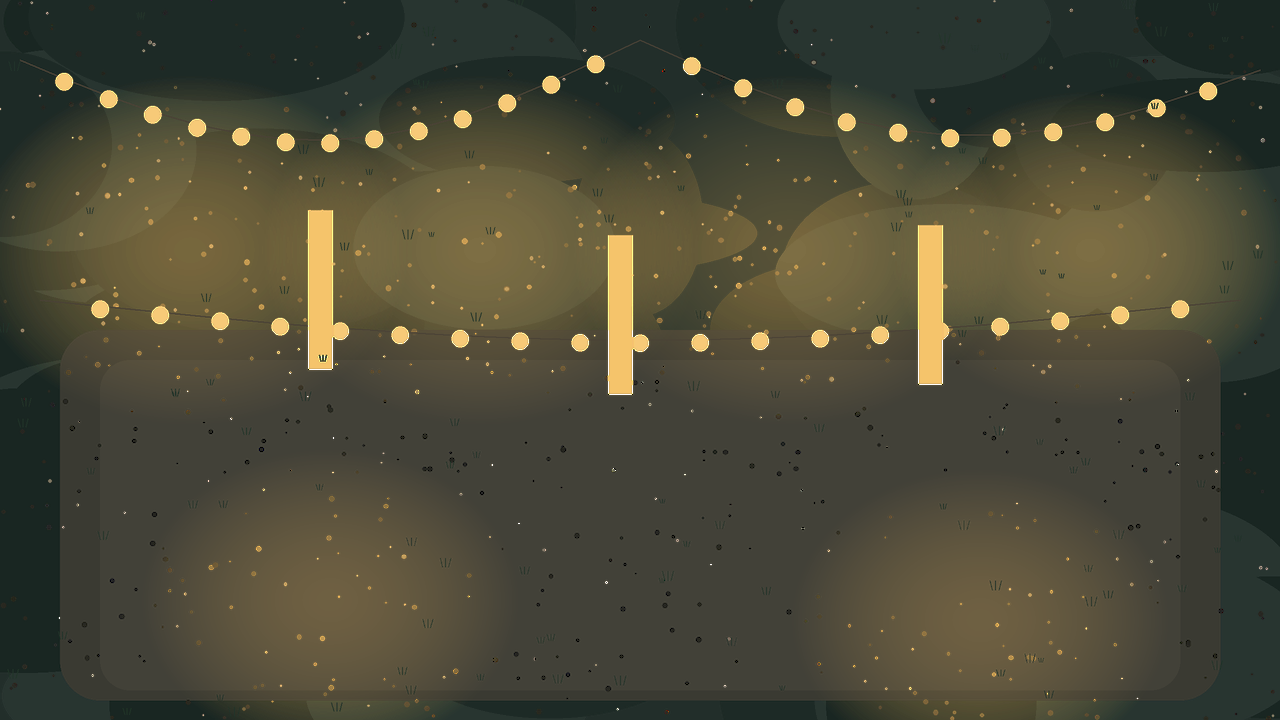
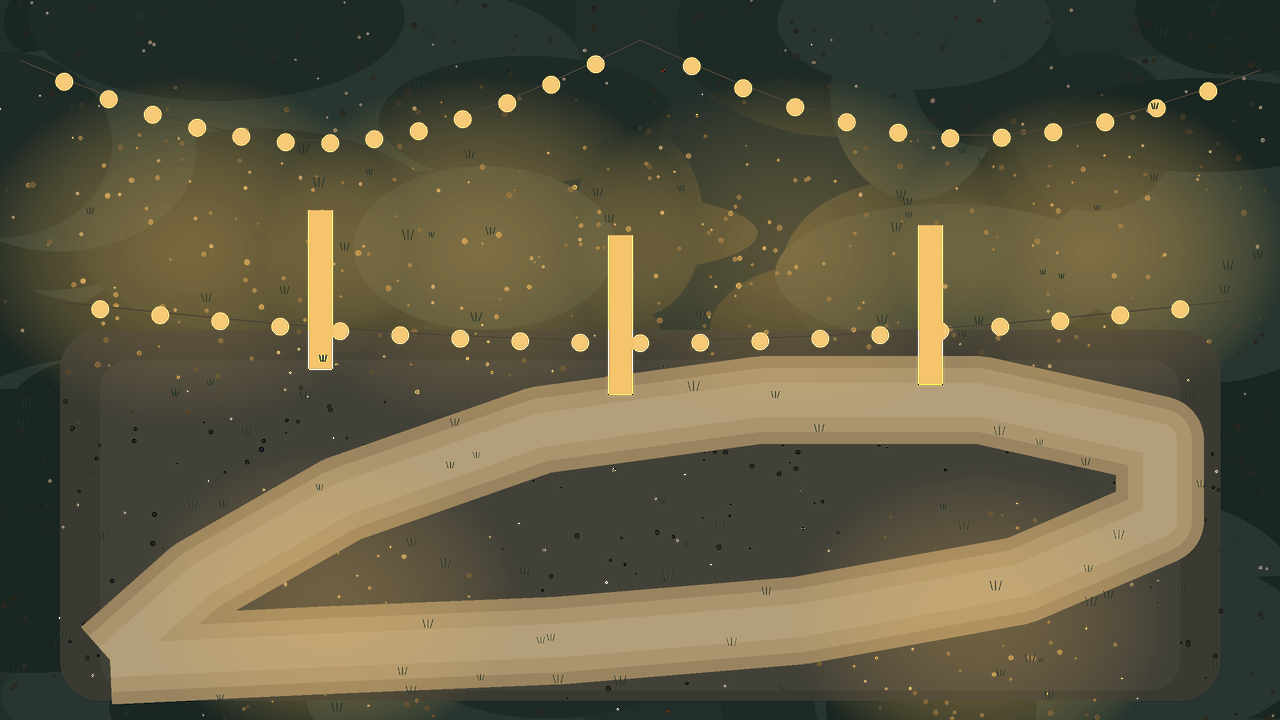
세 맵을 잇는 갈색 흙길 추가 및 출구 개방 시 새 길 연출 제거

Changed region(s): [[0.0625, 0.4889, 0.9375, 0.9778]]

diff --git a/Project/pico_heist/make_assets.py b/Project/pico_heist/make_assets.py
@@ -108,6 +108,15 @@ def vignette(im, color=(8, 16, 12), a=120, inn=0.55):
     im.alpha_composite(layer)
 
 
+def dirt_road(d, pts, ss, shade=1.0):
+    """세 맵에서 공유하는 갈색 흙길 — 1번 맵의 팔레트/폭을 그대로 쓴다."""
+    pl = [(x * ss, y * ss) for (x, y) in pts]
+    for rgb, width in (((176, 150, 108), 88), ((195, 170, 126), 64),
+                       ((204, 181, 138), 34)):
+        col = tuple(min(255, int(c * shade)) for c in rgb) + (255,)
+        d.line(pl, fill=col, width=width * ss, joint="curve")
+
+
 def bg_forest():
     ss = 2
     im = Image.new("RGBA", (W * ss, H * ss), (108, 138, 88, 255))
@@ -119,13 +128,11 @@ def bg_forest():
         rx, ry = rnd.uniform(60, 200) * ss, rnd.uniform(40, 120) * ss
         col = rnd.choice([(96, 126, 80), (118, 148, 94), (102, 132, 84)])
         d.ellipse([cx - rx, cy - ry, cx + rx, cy + ry], fill=col + (110,))
-    # 흙길
+    # 흙길 — 기존 길을 유지하되 끝을 오른쪽 아래 출구 게이트까지 이어서
+    # 2·3번 맵의 같은 흙길로 자연스럽게 넘어가게 한다.
     path = [(90, 610), (300, 560), (520, 590), (700, 520), (900, 470),
-            (1080, 400), (1210, 340)]
-    pl = [(x * ss, y * ss) for (x, y) in path]
-    d.line(pl, fill=(176, 150, 108, 255), width=88 * ss, joint="curve")
-    d.line(pl, fill=(195, 170, 126, 255), width=64 * ss, joint="curve")
-    d.line(pl, fill=(204, 181, 138, 255), width=34 * ss, joint="curve")
+            (1080, 400), (1150, 480), (1180, 640)]
+    dirt_road(d, path, ss)
     # 작은 갈림길
     side = [(520, 588), (470, 470), (500, 380)]
     d.line([(x * ss, y * ss) for (x, y) in side], fill=(180, 155, 112, 255),
@@ -164,6 +171,10 @@ def bg_lake():
         rx, ry = rnd.uniform(60, 180) * ss, rnd.uniform(30, 90) * ss
         col = rnd.choice([(134, 128, 84), (156, 148, 100), (122, 118, 80)])
         d.ellipse([cx - rx, cy - ry, cx + rx, cy + ry], fill=col + (110,))
+    # 1번 맵에서 이어진 갈색 흙길 — 왼쪽에서 들어와 호숫가를 크게 돌아
+    # 왼쪽 출구 게이트(110,420)로 다시 나간다. (물보다 아래에 그려 해변에서 끊긴다)
+    dirt_road(d, [(0, 380), (260, 340), (560, 330), (820, 350), (960, 400),
+                  (960, 440), (780, 440), (520, 430), (280, 420), (110, 420)], ss)
     # 물
     d.rectangle([0, 468 * ss, W * ss, H * ss], fill=(58, 82, 96, 255))
     for i in range(46):
@@ -243,6 +254,12 @@ def bg_festival():
                         fill=(66, 65, 56, 255))
     grain(im, (40, 40, 34), 700, size=(1, 3), alpha=(20, 70), ss=ss)
     grain(im, (120, 112, 96), 200, size=(1, 2), alpha=(20, 50), ss=ss)
+    # 2번 맵에서 이어진 같은 갈색 흙길 — 광장을 한 바퀴 돌아
+    # 시작점이자 출구 게이트(110,660)로 돌아온다.
+    dirt_road(d, [(110, 660), (320, 650), (560, 640), (800, 620),
+                  (1020, 580), (1160, 520), (1160, 440), (980, 400),
+                  (760, 400), (540, 430), (340, 500), (200, 580),
+                  (110, 660)], ss, shade=0.88)
     # 축제 조명 웅덩이
     for (cx, cy, rx) in [(190, 250, 220), (480, 250, 220), (790, 250, 220),
                          (1090, 250, 200), (330, 600, 190), (980, 620, 190)]:

diff --git a/Project/pico_heist/maps.py b/Project/pico_heist/maps.py
@@ -56,7 +56,8 @@ MAPS = [
         "exit": {
             "rect": (1130, 600, 1230, 680),
             "gate": (1180, 640),
-            "path": [(350, 362), (640, 640), (900, 640), (1180, 640)],
+            "path": [(90, 610), (300, 560), (520, 590), (700, 520),
+                     (900, 470), (1080, 400), (1150, 480), (1180, 640)],
         },
         "tent": {
             "name": "텐트 안",
@@ -158,7 +159,9 @@ MAPS = [
         "exit": {
             "rect": (60, 380, 160, 460),
             "gate": (110, 420),
-            "path": [(880, 564), (880, 440), (600, 420), (110, 420)],
+            "path": [(0, 380), (260, 340), (560, 330), (820, 350),
+                     (960, 400), (960, 440), (780, 440), (520, 430),
+                     (280, 420), (110, 420)],
         },
         # 낚싯배가 호수 끝에 닿으면 전환되는 낚시 전용 맵.
         # 배 안에서만 움직이며, 배 위에서만 타이밍 낚시가 가능하다.
@@ -237,7 +240,10 @@ MAPS = [
         "exit": {
             "rect": (60, 620, 160, 700),
             "gate": (110, 660),
-            "path": [(620, 388), (640, 660), (380, 660), (110, 660)],
+            "path": [(110, 660), (320, 650), (560, 640), (800, 620),
+                     (1020, 580), (1160, 520), (1160, 440), (980, 400),
+                     (760, 400), (540, 430), (340, 500), (200, 580),
+                     (110, 660)],
         },
         "backstage": {
             "name": "무대 뒤 조리 부스",

diff --git a/Project/pico_heist/game.py b/Project/pico_heist/game.py
@@ -1243,14 +1243,10 @@ class Game:
             im = self.img(sname)
             im.draw(sx, H - sy + im.h / 2, im.w, im.h)
 
-        # 출구가 열리면 길 표지를 따라 게이트까지 안내한다.
+        # 갈색 흙길은 세 맵 배경에 처음부터 깔려 있다. 음식을 다 모아도
+        # 새로운 길이 열리는 연출은 없고, 게이트 표지만 나타난다.
         ex = self.map.get("exit")
         if self.exit_open and ex is not None and self.boat_mode is None and not self.in_tent:
-            marker = self.img("fx_exit_trail.png")
-            for mx, my in path_markers(ex["path"]):
-                marker.opacify(0.55 + 0.35 * math.sin(self.time * 3.2 + mx * 0.02))
-                marker.draw(mx, H - my + 8, 28, 22)
-            marker.opacify(1.0)
             gx, gy = ex["gate"]
             gate = self.img("fx_exit_win.png" if self.map_index == len(MAPS) - 1
                             else "fx_exit_next.png")

diff --git a/Project/pico_heist/README.md b/Project/pico_heist/README.md
@@ -36,7 +36,7 @@ python main.py
 - **1번 맵은 야외만 다 먹으면 텐트 안 마시멜로가 남아 클리어되지 않는다.** **2번 맵은 텐트가 장식용이라, 부두에서 Q로 낚싯배를 타고 호숫가 낚시 맵으로 가서 생선을 낚아야 한다.** **3번 맵은 주황 부스 앞에서 E로 무대 뒤 조리 부스에 들어가 수프를 가져와야 한다.**
 - **맵의 5번째(마지막) 음식이 ‘진짜 음식’이다.** 숲속 마시멜로(텐트) · 호숫가 생선(낚시) · 야간 축제 수프(조리 부스), 총 **3개**. 절대 썩지 않으며 **이걸 얻지 않으면 맵이 클리어되지 않는다.**
 - 전체 썩은 음식은 **7개(2 + 2 + 3)**다. 썩은 음식을 주우면 경고만 뜨고 **수집 카운트에는 포함되지 않는다.** 안 주워도 맵 클리어가 가능하다.
-- 한 맵의 **정상 음식 + 마지막 진짜 음식**을 모아도 즉시 넘어가지 않는다. 대신 **출구가 열리고**, 피코가 **길 표지를 따라 게이트까지 직접 걸어가 E를 눌러야** 다음 캠핑장으로 이동한다.
+- 한 맵의 **정상 음식 + 마지막 진짜 음식**을 모아도 즉시 넘어가지 않는다. 대신 **출구 게이트만 열리고**, 피코가 **처음부터 깔려 있는 갈색 흙길을 따라 게이트까지 직접 걸어가 E를 눌러야** 다음 캠핑장으로 이동한다. 음식을 모을 때 **새로운 길이 생기지는 않는다.**
 - 캠핑객이 **보거나 듣거나** 하면 **감지도**가 차오른다. 100%가 되면 **추격**이 시작된다.
 - 추격 중 따라잡히면 게임 오버. 시야에서 벗어나 따돌리면 캠핑객은 **원래 순찰 자리로 돌아간다**.
 - **수풀**에 들어가면 멀리서는 보이지 않고 발소리도 줄어든다. 맵마다 5~7개.
@@ -45,6 +45,7 @@ python main.py
 - **진짜 음식 3개(맵마다 마지막 음식 1개)를 모두 모으면 마지막 출구가 열린다.** 게이트까지 걸어가 **E**를 눌러야 최종 클리어. R로 즉시 재시작.
 - 상단 HUD는 **15칸을 그대로 유지**해 어떤 음식을 모았는지 보여준다. 별(★)이 붙은 3칸이 진짜 음식이고, 왼쪽 위에 **“남은 음식: N개”**(현재 맵 기준 5→0)와 **“진짜 음식: N/3”**이 함께 표시된다.
 - 맵이 넘어가면서 시간이 흐른다: **숲속 = 한낮 → 호숫가 = 해 질 녘 → 야간 축제 = 밤**
+- **1번 맵 배경의 갈색 흙길을 2·3번 맵에서도 같은 팔레트로 이어 그렸다.** 숲속 오른쪽 아래 게이트 → 호숫가 왼쪽 게이트 → 야간 축제 광장을 돌아 시작점 게이트까지, 세 맵이 하나의 길로 연결된다.
 - **호숫가 낚시**: 2번 맵의 배는 **부두 위가 아니라 바로 옆 물에 떠 있다.** 부두 위 사람이 **Q**를 누르면 낚싯배에 탄다. **WASD / 방향키로 배를 직접 조종**하며(자동 항해 없음), **물 영역(y 468~720) 안에서만** 움직인다. 화면 아래 왼쪽·오른쪽 끝과 아래끝까지 이동할 수 있고, 물 아래쪽 끝의 **‘호숫가 이동’ 표지**에 닿으면 **새로운 호숫가 낚시 맵**(`bg_lake_open.png`)으로 전환된다. 낚시 맵에서도 **수면(y 280~720) 안에서만** 움직이며, 위쪽 하늘·산 쪽으로는 올라갈 수 없다. **E를 1.5초 홀드**하면 게이지가 차고, 움직이는 **초록 구간이 가운데 낚시 바늘에 들어온 순간 E를 떼면** 물고기가 튀어 오르며 소음이 퍼진다. 구간 밖에서 떼거나 너무 오래 잡고 있으면 도망친다. 낚시 맵에서는 **여기서 내리지 않고**, 아래쪽 끝의 **‘부두로 이동’ 안내**를 따라 배를 몰고 **Q**를 누르면 **2번 맵의 원래 부두로 돌아온다.** 돌아온 뒤에도 **배에 탄 상태**이며, **원래 부두에 배가 매어져 있을 때만 ‘배에서 내리기’ 문구가 뜨고 Q로 하선**한다. 부두를 떠나 있으면 Q를 눌러도 내리지 않는다. 하선 후 배는 물 위 원래 자리에 그대로 남고, 사람은 부두 위로 올라온다.
 - **무대 뒤 조리 부스**: 3번 맵 주황 부스 `(620,300)` 앞에서 **E**를 누르면 커튼과 전등이 있는 조리 부스로 들어간다. 요리사가 냄비를 젓는 2.5초 동안에는 등을 보이고, 방 안을 보는 2.5초 동안에는 시야 콘이 열린다. 그 틈을 타 맨 뒤 수프를 훔쳐 **다시 E로 밖으로 나오는 순간** 출구가 열린다. 쫓기면 문으로 도망쳐 나올 수 있다.
 
@@ -110,7 +111,7 @@ pico_heist/
 ├─ game.py          # 플레이어/캠핑객/소품/음식, 감지·LOS, 추격, 텐트·낚시배·출구, HUD 렌더
 ├─ maps.py          # 3개 맵 + 텐트 안 1개 + 호숫가 낚시 맵 (소품·음식·캠핑객·출구 길·물/벽 충돌)
 ├─ art_sprites.py   # 캐릭터·소품·음식·침낭/자는 사람 스프라이트 생성 (PIL)
-├─ make_assets.py   # 배경 5종·시야 콘·HUD·텐트/낚시배·출구 게이트/길 표지·인트로/엔딩 오버레이 + 발소리 WAV 생성
+├─ make_assets.py   # 배경 5종(세 맵에 이어지는 갈색 흙길 포함)·시야 콘·HUD·텐트/낚시배·출구 게이트·인트로/엔딩 오버레이 + 발소리 WAV 생성
 └─ assets/          # 생성된 PNG 162개 + WAV 2개
 ```
 
@@ -121,7 +122,7 @@ pico_heist/
 ## 상태 흐름
 
 ```
-intro → playing → (맵 음식 완료) exit_open → 길 표지 따라 이동 → 게이트 E → (다음 맵) intro → playing → …
+intro → playing → (맵 음식 완료) exit_open(게이트만 표시) → 깔려 있는 흙길 따라 이동 → 게이트 E → (다음 맵) intro → playing → …
               ↘ chase (감지 100%) → 따돌림 → return → playing
               ↘ 텐트 안 (E) → playing(tent) → 밖으로 (E) → exit_open
               ↘ 낚싯배 (Q) → sailing → 호숫가 낚시 맵 → 배 위에서 E 홀드 → 초록 구간에서 떼기 → Q로 2번 맵 원래 부두 복귀(배에 탄 상태) → 부두에서 Q 하선(배는 그대로) → exit_open
@@ -165,7 +166,7 @@ pico2d 창을 띄운 상태에서 로직을 직접 실행하는 자동 검증 22
 - **2번 맵 인물 배치: 부두 위 앉은 사람 없음 · 호숫가 언덕 낚시꾼 1명이 물 쪽을 바라봄**
 - **낚싯배는 부두 위가 아니라 옆 물에 떠 있음 · 탑승/하선은 부두 위에서 · 낚시 맵 배는 수면 상단(y 280) 아래에서만 움직여 산·하늘 진입 불가**
 - **3번 맵: 야외에는 수프가 없음 · 주황 부스 앞 E로 조리 부스 진입 · 안에서만 수프 획득 · 수프를 먹어도 안에서는 출구가 열리지 않음 · E로 밖에 나오는 순간 출구 개방 · 요리사가 2.5초마다 냄비/방 안을 번갈아 봄 · 쫓기면 문으로 도망 가능**
-- **걸어서 다음 맵으로: 맵 완료 시 게이트 + 길 표지 표시, 게이트 밖에서는 E 프롬프트 없음, 낚시 후 부두 복귀에도 출구 유지, 마지막 게이트 E에서만 win**
+- **걸어서 다음 맵으로: 갈색 흙길은 세 맵에 처음부터 깔려 있고 맵 완료 시 게이트만 표시(새 길 없음), 게이트 밖에서는 E 프롬프트 없음, 낚시 후 부두 복귀에도 출구 유지, 마지막 게이트 E에서만 win**
 - **HUD 15칸 유지, 별 표시 + 남은 음식(5→0)/진짜 음식(0/3) 카운터 검증**
 - 맵/음식 데이터, 15종 음식 중복 없음, 맵마다 수풀 5개 이상, 텐트 소품 포함 모든 스프라이트 존재
 - 텐트 소품 18개(테이블 엄폐 + 장식 소품 7개는 통과 불가·엄폐 없음), 뒤쪽 벽 위 걷기 방지, 텐트 음식이 항상 자는 사람의 위험 반경 안에 있는지
